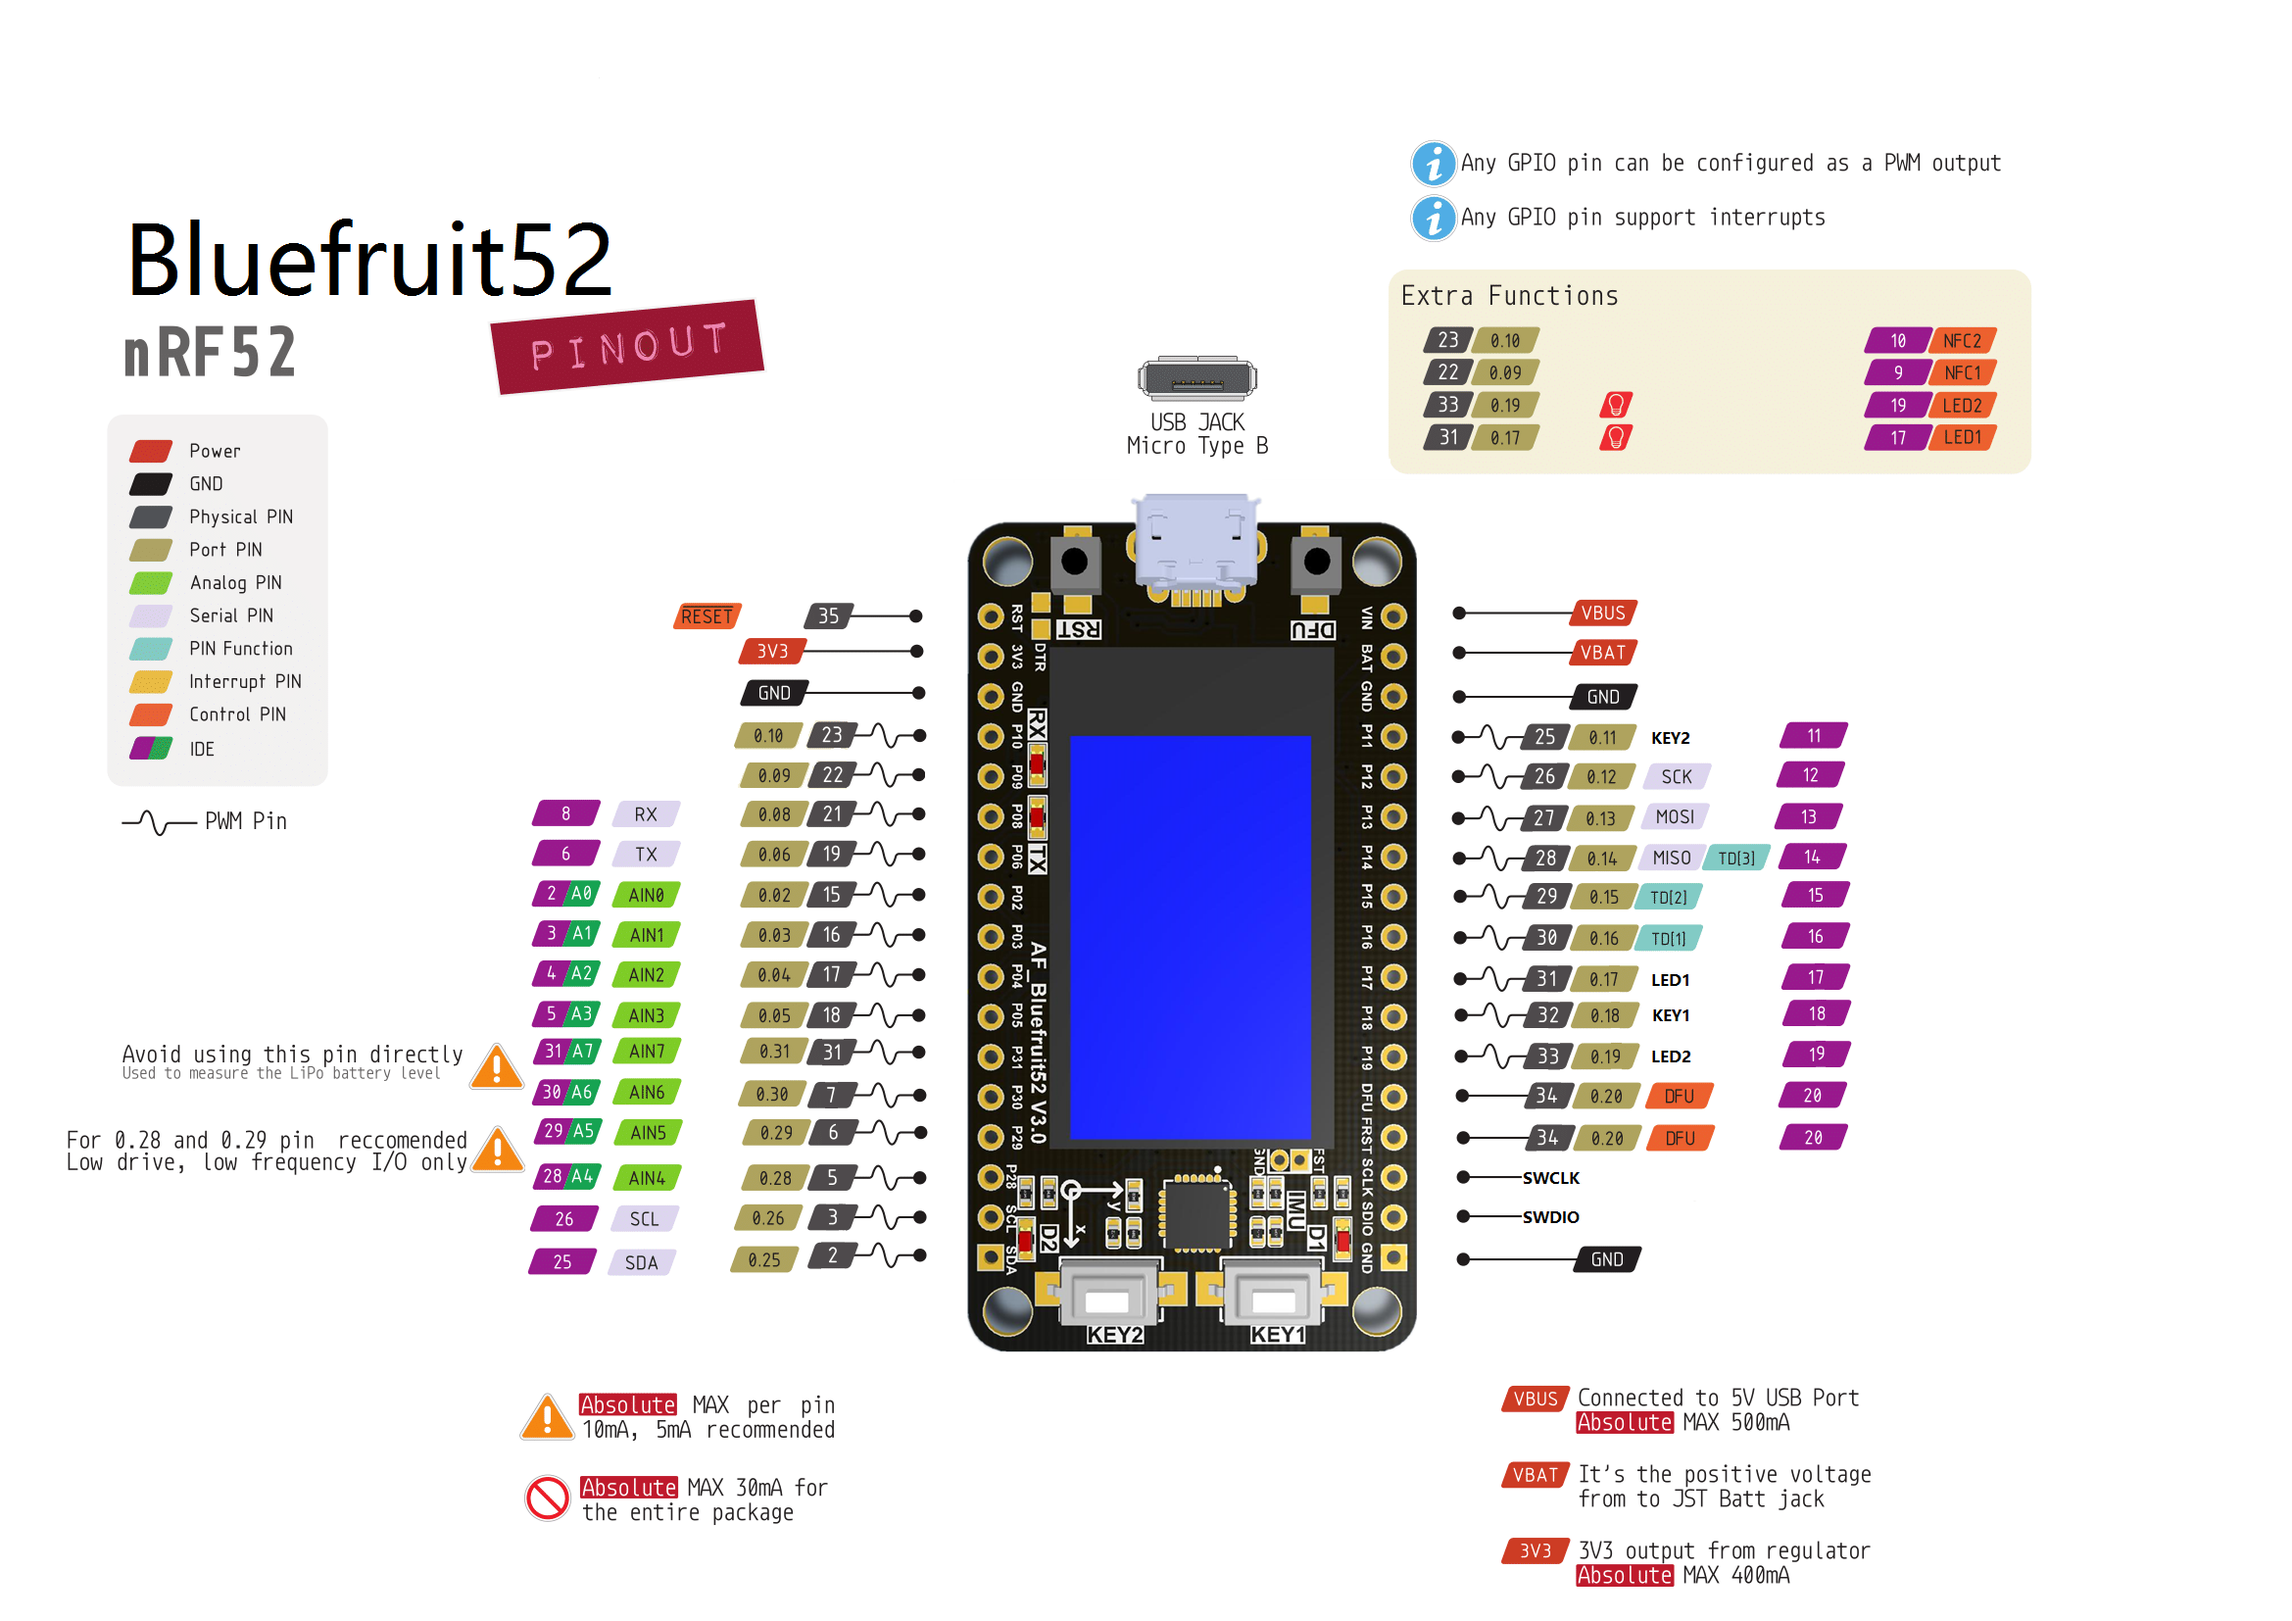
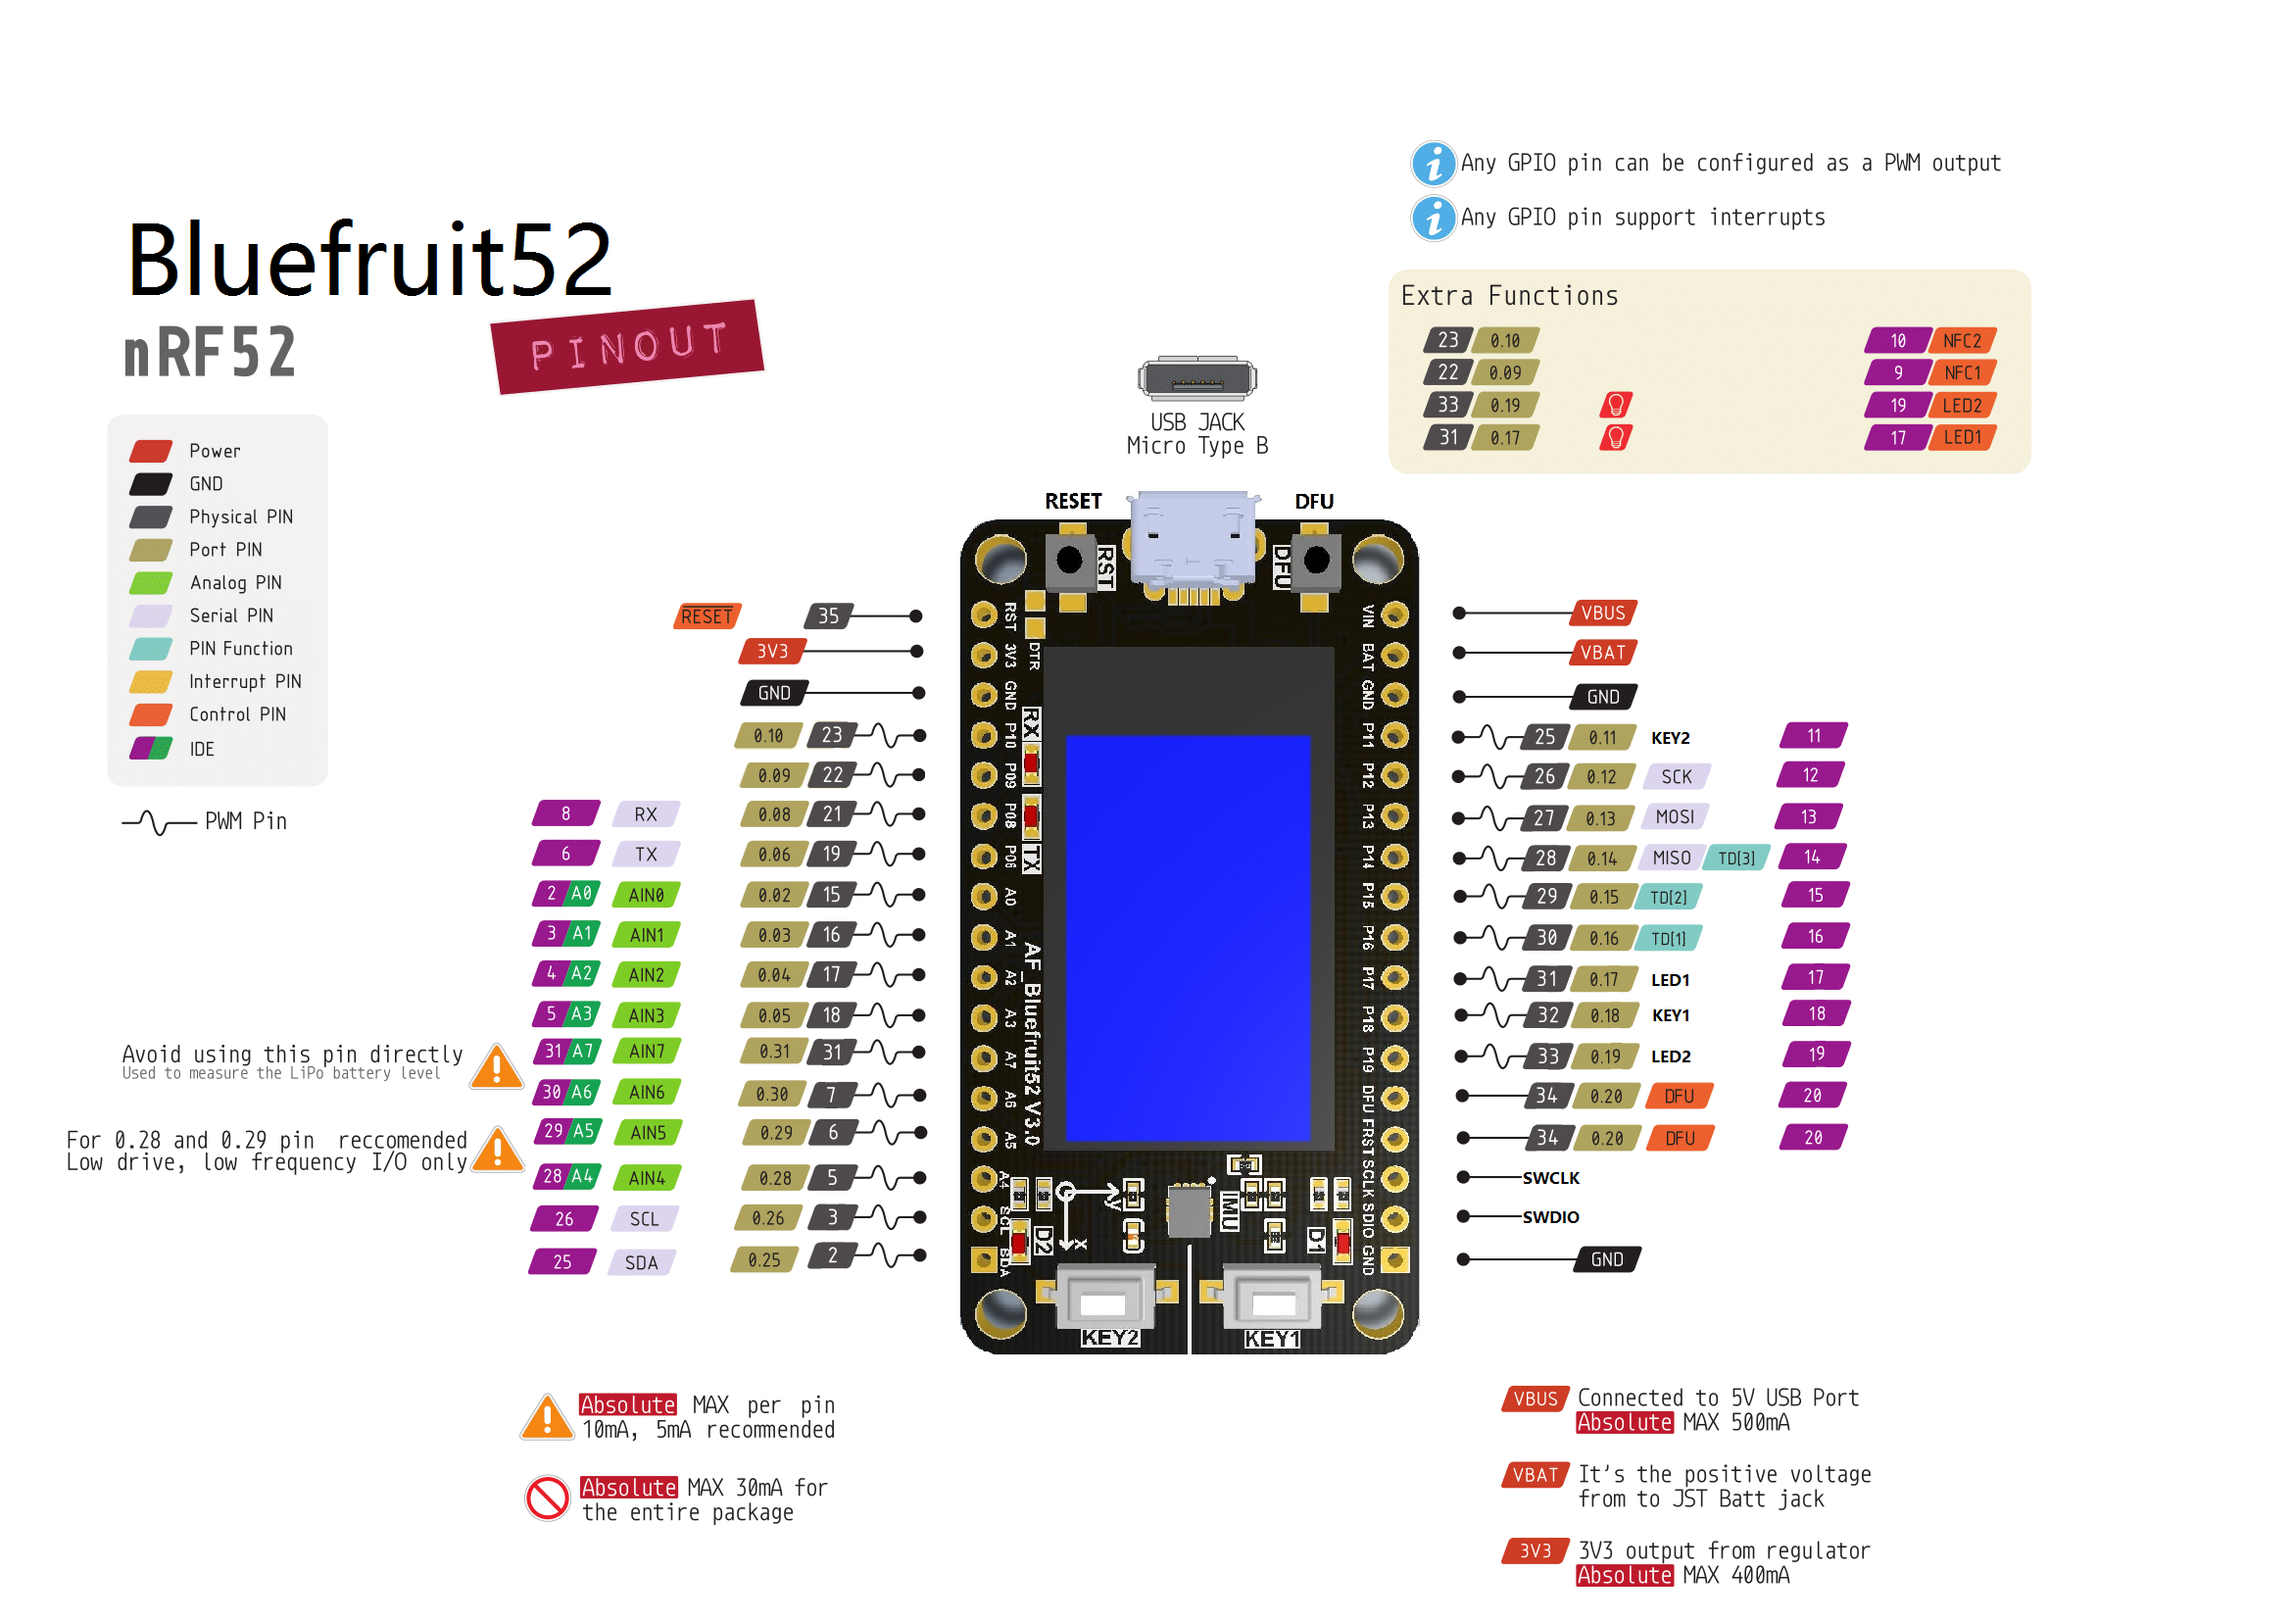
change for version 3.0.

Changed region(s): [[0.4057, 0.3083, 0.6242, 0.8325]]

diff --git a/README.md b/README.md
@@ -16,22 +16,22 @@ Welcome to program with Bluefruit52 nRF52832 Core
 
 *2. For Windows*
 
-* [Install the Bluefruit52 board for Arduino](https://github.com/Afantor/Afantor_Bluefruit52_Arduino/tree/master/docs/getting_started_setting.md) 
+* [Install the Bluefruit52 board for Arduino](https://github.com/Afantor/Bluefruit52_Arduino/tree/master/docs/getting_started_setting.md) 
 
 
 ## 2. Example
 
-https://github.com/Afantor/Afantor_Bluefruit52_Arduino/tree/master/examples
+https://github.com/Afantor/Bluefruit52_Arduino/tree/master/examples
 
 ## 3. API Reference
 
-https://github.com/Afantor/Afantor_Bluefruit52_Arduino/blob/master/src/bluefruit52.h#L49
+https://github.com/Afantor/Bluefruit52_Arduino/blob/master/src/bluefruit52.h#L49
 
 ## 4. H/W Reference
 
 #### Pinout
 
-*We have several kinds of Boards, There is [their difference in schematic](https://github.com/Afantor/Afantor_Bluefruit52_Arduino/tree/master/docs/hardware).*
+*We have several kinds of Boards, There is [their difference in schematic](https://github.com/Afantor/Bluefruit52_Arduino/tree/master/docs/hardware).*
 
 **LCD**
 
@@ -50,11 +50,11 @@ https://github.com/Afantor/Afantor_Bluefruit52_Arduino/blob/master/src/bluefruit
  <tr><td>Button Pin</td><td>BUTTON 1</td><td>BUTTON 2</td></tr>
 </table>
 
-**MPU6050**
+**BMI160 6 axis**
 
 <table>
- <tr><td>nRF52 Chip</td><td>P0.26</td><td>P0.25</td></tr>
- <tr><td>MPU6050</td><td>SCL</td><td>SDA</td></tr>
+ <tr><td>nRF52 Chip</td><td>P0.26</td><td>P0.25</td><td>P0.30(A6)</td></tr>
+ <tr><td>BMI160</td><td>SCL</td><td>SDA</td><td>INT1</td></tr>
 </table>
 
 
@@ -64,4 +64,4 @@ https://github.com/Afantor/Afantor_Bluefruit52_Arduino/blob/master/src/bluefruit
 
 ## 5. Awesome Project
 
-* [App-Controller](https://github.com/Afantor/Afantor_Bluefruit52_Arduino/tree/master/examples/Peripheral/controller)  This examples shows you you can use the BLEUart helper class and the Bluefruit LE Connect applications to send based keypad and sensor data to your nRF52.
+* [App-Controller](https://github.com/Afantor/Bluefruit52_Arduino/tree/master/examples/Peripheral/controller)  This examples shows you you can use the BLEUart helper class and the Bluefruit LE Connect applications to send based keypad and sensor data to your nRF52.

diff --git a/docs/getting_started_ja.md b/docs/getting_started_ja.md
@@ -21,17 +21,17 @@ Coming soon...
 
 ## 2. プログラム例
 
-https://github.com/Afantor/Afantor_Bluefruit52_Arduino/tree/master/examples
+https://github.com/Afantor/Bluefruit52_Arduino/tree/master/examples
 
 ## 3. 関数リファレンス（API仕様）
 
-https://github.com/Afantor/Afantor_Bluefruit52_Arduino/blob/master/src/bluefruit52.h#L49
+https://github.com/Afantor/Bluefruit52_Arduino/blob/master/src/bluefruit52.h#L49
 
 ## 4. ハードウェア仕様
 
 #### I/Oインタフェイス 
 
-*nRF52は複数のバリエーションがあります。違いは [こちら](https://github.com/Afantor/Afantor_Bluefruit52_Arduino/tree/master/docs/hardware)*
+*nRF52は複数のバリエーションがあります。違いは [こちら](https://github.com/Afantor/Bluefruit52_Arduino/tree/master/docs/hardware)*
 
 **LCD**
 
@@ -50,11 +50,11 @@ https://github.com/Afantor/Afantor_Bluefruit52_Arduino/blob/master/src/bluefruit
  <tr><td>Button Pin</td><td>BUTTON 1</td><td>BUTTON 2</td></tr>
 </table>
 
-**MPU6050**
+**BMI160 6 axis**
 
 <table>
- <tr><td>nRF52 Chip</td><td>P0.26</td><td>P0.25</td></tr>
- <tr><td>MPU6050</td><td>SCL</td><td>SDA</td></tr>
+ <tr><td>nRF52 Chip</td><td>P0.26</td><td>P0.25</td><td>P0.30(A6)</td></tr>
+ <tr><td>BMI160</td><td>SCL</td><td>SDA</td><td>INT1</td></tr>
 </table>
 
 
@@ -64,4 +64,4 @@ https://github.com/Afantor/Afantor_Bluefruit52_Arduino/blob/master/src/bluefruit
 
 ## 5. 素晴らしい応用例
 
-* [App-Controller](https://github.com/Afantor/Afantor_Bluefruit52_Arduino/tree/master/examples/Peripheral/controller)  この例は、BLEUartヘルパークラスとBluefruit LE Connectアプリケーションを使用して、ベースのキーパッドとセンサーデータをnRF52に送信できることを示しています。
+* [App-Controller](https://github.com/Afantor/Bluefruit52_Arduino/tree/master/examples/Peripheral/controller)  この例は、BLEUartヘルパークラスとBluefruit LE Connectアプリケーションを使用して、ベースのキーパッドとセンサーデータをnRF52に送信できることを示しています。

diff --git a/docs/getting_started_cn.md b/docs/getting_started_cn.md
@@ -10,16 +10,16 @@
 
 *2. For Windows*
 
-* [Install the Bluefruit52 board for Arduino](https://github.com/Afantor/Afantor_Bluefruit52_Arduino/tree/master/docs/getting_started_setting.md) 
+* [Install the Bluefruit52 board for Arduino](https://github.com/Afantor/Bluefruit52_Arduino/tree/master/docs/getting_started_setting.md) 
 
 
 ## 2. 例程
 
-https://github.com/Afantor/Afantor_Bluefruit52_Arduino/tree/master/examples
+https://github.com/Afantor/Bluefruit52_Arduino/tree/master/examples
 
 ## 3. API 参考
 
-https://github.com/Afantor/Afantor_Bluefruit52_Arduino/blob/master/src/bluefruit52.h#L49
+https://github.com/Afantor/Bluefruit52_Arduino/blob/master/src/bluefruit52.h#L49
 
 https://www.afantor.cc/nRF52_bluefruit_Learning_Guide.html
 
@@ -27,7 +27,7 @@ https://www.afantor.cc/nRF52_bluefruit_Learning_Guide.html
 
 #### 管脚映射
 
-*我们有几个不同版本的主控，可以直接查看原理图[对比](https://github.com/Afantor/Afantor_Bluefruit52_Arduino/tree/master/docs/hardware).*
+*我们有几个不同版本的主控，可以直接查看原理图[对比](https://github.com/Afantor/Bluefruit52_Arduino/tree/master/docs/hardware).*
 
 **LCD & TF Card**
 
@@ -46,11 +46,11 @@ https://www.afantor.cc/nRF52_bluefruit_Learning_Guide.html
  <tr><td>Button Pin</td><td>BUTTON 1</td><td>BUTTON 2</td></tr>
 </table>
 
-**MPU6050**
+**BMI160 6 axis**
 
 <table>
- <tr><td>nRF52 Chip</td><td>P0.26</td><td>P0.25</td></tr>
- <tr><td>MPU6050</td><td>SCL</td><td>SDA</td></tr>
+ <tr><td>nRF52 Chip</td><td>P0.26</td><td>P0.25</td><td>P0.30(A6)</td></tr>
+ <tr><td>BMI160</td><td>SCL</td><td>SDA</td><td>INT1</td></tr>
 </table>
 
 
@@ -64,6 +64,6 @@ https://www.afantor.cc/nRF52_bluefruit_Learning_Guide.html
 
   https://docs.m5stack.com/#/zh_CN/related_documents/establish_serial_connection
 
-* 如何升级 Adafruit_nRF52_Arduino 库和 Afantor_Bluefruit52_Arduino 库
+* 如何升级 Adafruit_nRF52_Arduino 库和 Bluefruit52_Arduino 库
 
   https://docs.m5stack.com/#/zh_CN/related_documents/upgrade_m5stack_lib

diff --git a/docs/getting_started_setting.md b/docs/getting_started_setting.md
@@ -38,7 +38,7 @@ https://www.arduino.cc/en/Main/Software
 ![image](arduino-ide/win-screenshots_cn/arduino_path.png)
 
 
-### 2、下载 Afantor nRF52832 支持包
+### 2、下载 Afantor nRF52832 Bluefruit52支持包
 
 （我的 Arduino 当前路径是 D:\Program Files\arduino）
 
@@ -65,7 +65,7 @@ https://www.arduino.cc/en/Main/Software
 安装完成后，打开“工具”菜单下，选择“开发板”，找到“Adafruit nRF52832 Boards” 下的 “Adafruit Bluefruit nRF52832 Feather”，环境即搭建完成。
 
 
-### 4、打开Arduino IDE 验证Adafruit_nRF52_Arduino和Afantor_Bluefruit52_Arduino 的库
+### 4、打开Arduino IDE 验证Adafruit_nRF52_Arduino和Bluefruit52_Arduino 的库
 
 打开Arduino IDE，选择“Adafruit Bluefruit nRF52832 Feather”开发板，进入“文件”菜单下的“示例”，找到“Adafruit Bluefruit nRF52 Libraries” 和 “Afantor Bluefruit52” 里面即是例程库。
 
